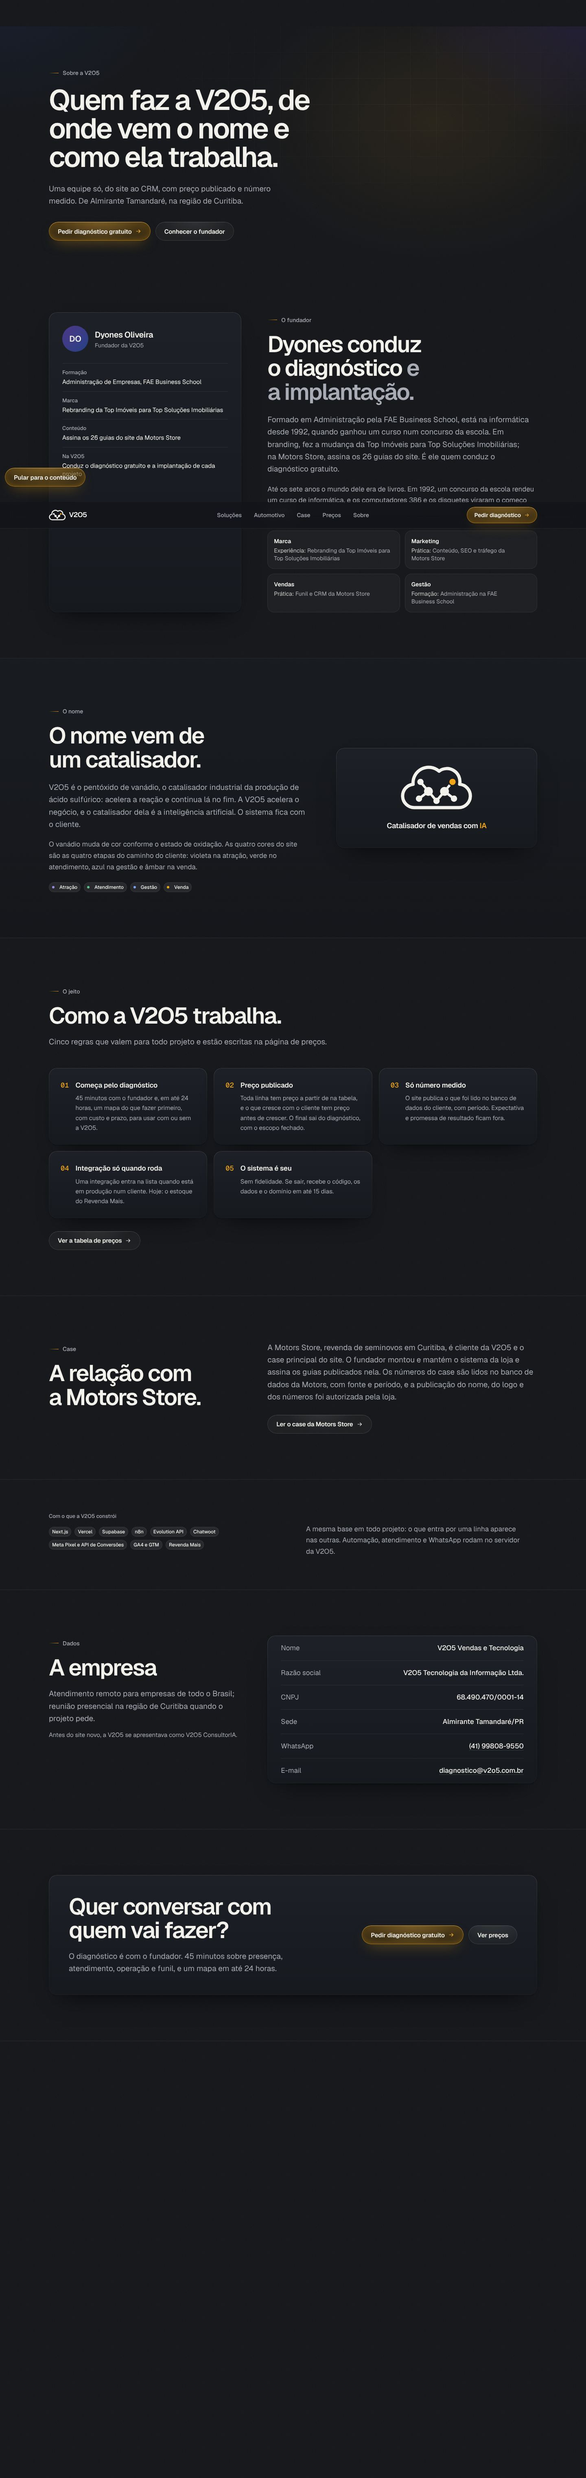
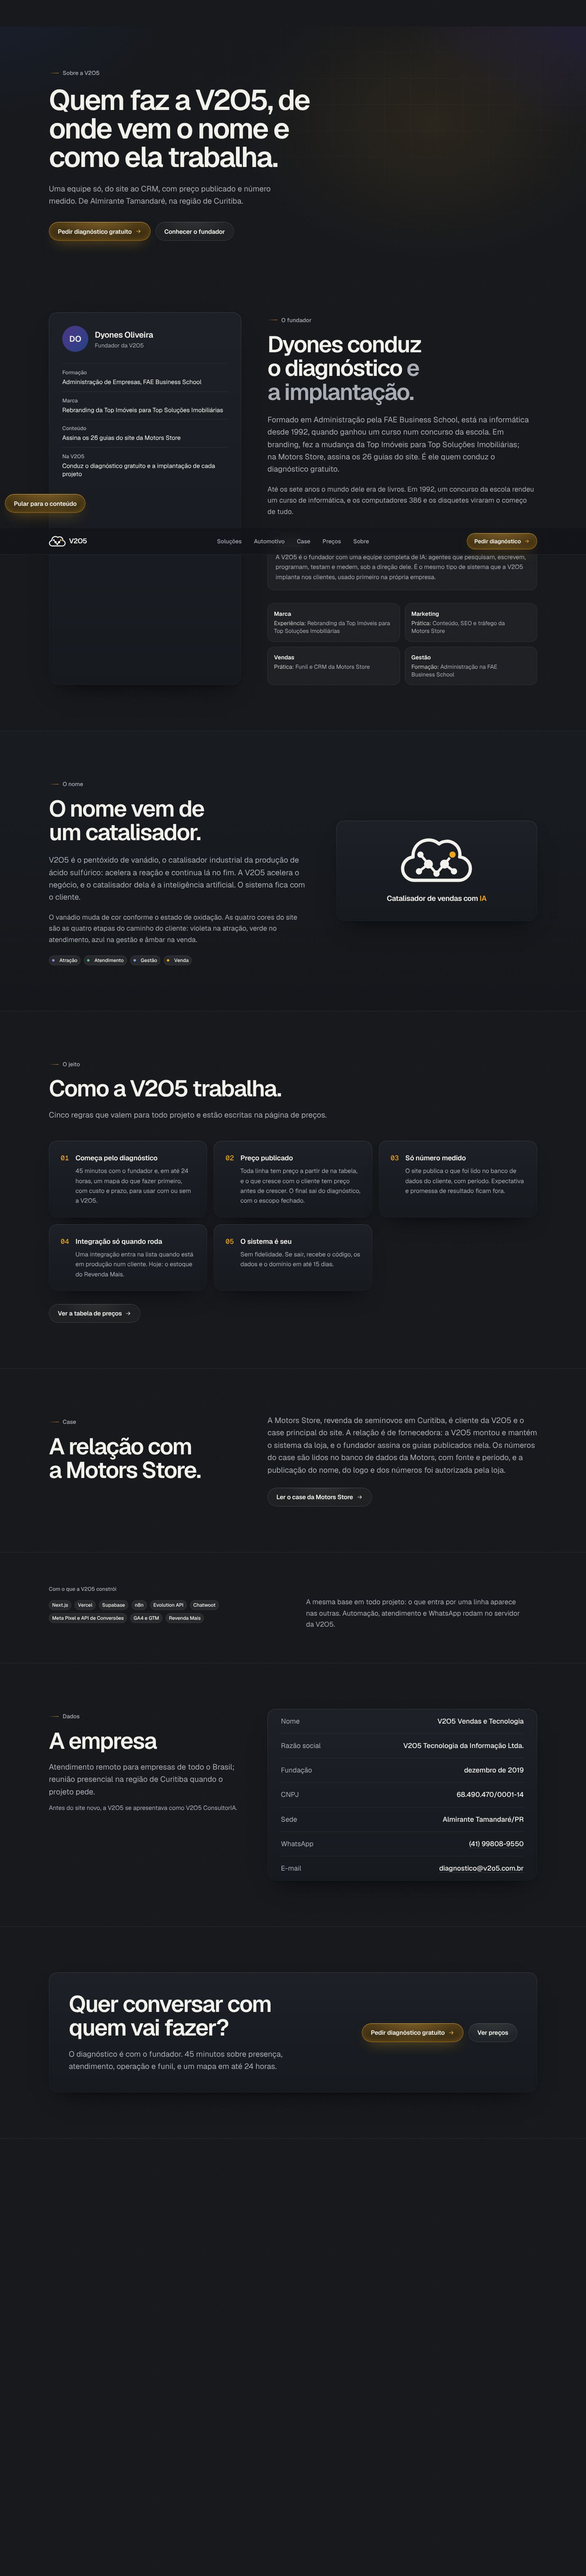
Sobre: relação com a Motors como fornecedora, equipe completa de IA e fundação em dezembro de 2019 (também no schema)
Respostas do Dyones (13/10) às três perguntas da página: a relação com a
Motors é de fornecedora; a equipe é o fundador com uma equipe completa
de IA; a V2O5 foi fundada em dezembro de 2019 (dados da empresa em
/sobre e foundingDate da organização no schema, via EMPRESA.fundacao).
Memória (marca, decisões, pendências) e tests/sobre.test.ts atualizados.

Claude-Session: https://claude.ai/code/session_016U4jhnBTXDWyNvtdckLsv3

diff --git a/src/conteudo/sobre.ts b/src/conteudo/sobre.ts
@@ -7,8 +7,11 @@ import { REGRAS } from "@/conteudo/precos";
  * declarando a relação com a Motors; `/jornada/` do site antigo redireciona
  * para cá). Só fato registrado: o que o Dyones contou (FAE, Top, diagnóstico),
  * o que publicou no site antigo (livros até os 7 anos, o concurso de 1992)
- * e o que a memória do case confirma (os 26 guias). Sem foto até ela chegar
- * (pendência 1) e sem citação inventada. `tests/sobre.test.ts` confere.
+ * e o que a memória do case confirma (os 26 guias). Respostas do Dyones em
+ * 13/10: a relação com a Motors é de fornecedora; a equipe é o fundador com
+ * uma equipe completa de IA; a empresa foi fundada em dezembro de 2019. Sem
+ * foto até ela chegar (pendência 1) e sem citação inventada.
+ * `tests/sobre.test.ts` confere.
  */
 export const SOBRE = {
   rota: "/sobre",
@@ -29,6 +32,11 @@ export const SOBRE = {
       { rotulo: "Conteúdo", valor: "Assina os 26 guias do site da Motors Store" },
       { rotulo: "Na V2O5", valor: "Conduz o diagnóstico gratuito e a implantação de cada projeto" },
     ],
+  },
+  equipe: {
+    titulo: "A equipe",
+    texto:
+      "A V2O5 é o fundador com uma equipe completa de IA: agentes que pesquisam, escrevem, programam, testam e medem, sob a direção dele. É o mesmo tipo de sistema que a V2O5 implanta nos clientes, usado primeiro na própria empresa.",
   },
   nome: {
     titulo: "O nome vem de um catalisador.",
@@ -67,7 +75,7 @@ export const SOBRE = {
   motors: {
     titulo: "A relação com a Motors Store.",
     texto:
-      "A Motors Store, revenda de seminovos em Curitiba, é cliente da V2O5 e o case principal do site. O fundador montou e mantém o sistema da loja e assina os guias publicados nela. Os números do case são lidos no banco de dados da Motors, com fonte e período, e a publicação do nome, do logo e dos números foi autorizada pela loja.",
+      "A Motors Store, revenda de seminovos em Curitiba, é cliente da V2O5 e o case principal do site. A relação é de fornecedora: a V2O5 montou e mantém o sistema da loja, e o fundador assina os guias publicados nela. Os números do case são lidos no banco de dados da Motors, com fonte e período, e a publicação do nome, do logo e dos números foi autorizada pela loja.",
     href: CASE_MOTORS.rota,
     botao: "Ler o case da Motors Store",
   },
@@ -82,6 +90,7 @@ export const SOBRE = {
     razaoSocial: EMPRESA.razaoSocial,
     cnpj: EMPRESA.cnpj,
     cidade: EMPRESA.cidade,
+    fundacao: EMPRESA.fundacaoPorExtenso,
     atendimento: "Atendimento remoto para empresas de todo o Brasil; reunião presencial na região de Curitiba quando o projeto pede.",
     antes: "Antes do site novo, a V2O5 se apresentava como V2O5 ConsultorIA.",
   },

diff --git a/tests/sobre.test.ts b/tests/sobre.test.ts
@@ -1,8 +1,8 @@
 import { describe, expect, it } from "vitest";
-import { VISAO_360 } from "@/conteudo/home";
+import { EMPRESA, VISAO_360 } from "@/conteudo/home";
 import { paginaDa } from "@/conteudo/paginas";
 import { SOBRE } from "@/conteudo/sobre";
-import { grafoDoSobre, ID_DO_FUNDADOR } from "@/lib/schema";
+import { grafoDoSobre, ID_DO_FUNDADOR, organizacao } from "@/lib/schema";
 import { ler, semComentarios } from "./fonte";
 
 /**
@@ -36,12 +36,22 @@ describe("página Sobre", () => {
     expect(ler("memory/projects/case-motors.md")).toMatch(/\| Guias publicados \| 26 \|/);
   });
 
-  it("declara a relação com a Motors como cliente e case, com a autorização registrada", () => {
+  it("declara a relação com a Motors como fornecedora (Dyones, 13/10), com a autorização registrada", () => {
     expect(SOBRE.motors.texto).toMatch(/cliente da V2O5/);
+    expect(SOBRE.motors.texto).toMatch(/fornecedora/);
     expect(SOBRE.motors.texto).toMatch(/case principal/);
     expect(SOBRE.motors.texto).toMatch(/autorizada/);
     expect(ler("memory/projects/case-motors.md")).toMatch(/Autorizado em 08\/10: nome, logo e números/);
     expect(SOBRE.motors.href).toBe("/cases/motors-store");
+  });
+
+  it("a equipe é o fundador com uma equipe completa de IA, e a fundação é dezembro de 2019 (Dyones, 13/10)", () => {
+    expect(SOBRE.equipe.texto).toMatch(/equipe completa de IA/);
+    expect(SOBRE.empresa.fundacao).toBe("dezembro de 2019");
+    expect(EMPRESA.fundacao).toBe("2019-12");
+    expect(organizacao().foundingDate).toBe("2019-12");
+    expect(pagina).toContain('["Fundação", s.empresa.fundacao]');
+    expect(ler("memory/context/marca.md")).toMatch(/dezembro de 2019/);
   });
 
   it("o nome vem do catalisador, e a assinatura é a da marca", () => {

diff --git a/src/app/sobre/page.tsx b/src/app/sobre/page.tsx
@@ -86,6 +86,10 @@ export default function Pagina() {
               </h2>
               <p className="texto-guia mt-6">{s.fundador.texto}</p>
               <p className="mt-5 text-[1.0625rem] leading-relaxed text-secundario">{s.fundador.origem}</p>
+              <div className="mt-8 rounded-2xl bg-vidro p-5 contorno">
+                <h3 className="font-semibold tracking-[-0.01em]">{s.equipe.titulo}</h3>
+                <p className="mt-1.5 text-[0.9375rem] leading-relaxed text-secundario">{s.equipe.texto}</p>
+              </div>
               <ul className="mt-8 grid gap-3 sm:grid-cols-2">
                 {VISAO_360.areas.map((a) => (
                   <li key={a.nome} className="rounded-2xl bg-vidro p-4 contorno">
@@ -206,6 +210,7 @@ export default function Pagina() {
               {[
                 ["Nome", s.empresa.nome],
                 ["Razão social", s.empresa.razaoSocial],
+                ["Fundação", s.empresa.fundacao],
                 ["CNPJ", s.empresa.cnpj],
                 ["Sede", s.empresa.cidade],
               ].map(([rotulo, valor]) => (

diff --git a/src/conteudo/home.ts b/src/conteudo/home.ts
@@ -797,6 +797,9 @@ export const EMPRESA = {
    */
   email: "diagnostico@v2o5.com.br",
   emailPrivacidade: "privacidade@v2o5.com.br",
+  /** Fundação da V2O5, pelo Dyones (13/10): dezembro de 2019. Vai para o schema (`foundingDate`) e para `/sobre`. */
+  fundacao: "2019-12",
+  fundacaoPorExtenso: "dezembro de 2019",
 };
 
 /** Assunto pré-preenchido do e-mail, por lugar. */

diff --git a/src/lib/schema.ts b/src/lib/schema.ts
@@ -36,6 +36,7 @@ export function organizacao(): No {
     url: `${SITE_URL}/`,
     logo: `${SITE_URL}/icon.svg`,
     slogan: "Catalisador de vendas com IA",
+    foundingDate: EMPRESA.fundacao,
     founder: ref(ID_DO_FUNDADOR),
     telephone: whatsappInternacional(),
     email: EMPRESA.email,

diff --git a/memory/decisoes.md b/memory/decisoes.md
@@ -5,7 +5,7 @@ Log datado. Decisão nova entra no topo do dia; decisão revogada fica riscada c
 ## 13/10/2026 (página Sobre, pelo Dyones: "prossiga")
 - `/sobre` pronta e indexável (`conteudo/sobre.ts`): o fundador com o mesmo texto da Visão 360 e quatro fatos (FAE, Top Imóveis, 26 guias da Motors, diagnóstico), a origem resumida da página Jornada do site antigo (livros até os sete anos, o concurso de 1992), as quatro áreas com a base dele; o nome (pentóxido de vanádio, catalisador do ácido sulfúrico; as quatro cores do vanádio como as quatro etapas) com o símbolo e a assinatura; cinco regras de como a V2O5 trabalha (diagnóstico primeiro, preço publicado, só número medido, integração só quando roda, o sistema é seu); a relação com a Motors declarada como cliente e case principal, com a autorização registrada; as ferramentas (stack do case) e os dados da empresa (nome, razão social, CNPJ, sede, WhatsApp, e-mail, "antes se apresentava como V2O5 ConsultorIA"). Sem foto (pendência 1 e 11): no lugar, as iniciais num círculo; a foto entra no mesmo cartão quando chegar. Sem data de fundação: o CNPJ está ativo desde 10/08/2026 (`marca.md`) e publicar isso é escolha comercial do Dyones.
 - Schema: trilha, `Person` do fundador (o `@id` `/sobre#autor` finalmente aponta para uma seção que existe) e `AboutPage` com a organização como assunto. `tests/sobre.test.ts` trava texto do fundador igual ao da Visão 360, relação com a Motors com autorização registrada, resumo ≤ 140, grafo e texto sem marcas de IA (inclusive sem aspas tipográficas, para não entrar citação inventada).
-- O que a página não afirma, por falta de registro: se o Dyones tem outra relação com a Motors além de fornecedor (a página diz "cliente e case principal"), equipe além do fundador e ano de fundação da V2O5.
+- Respostas do Dyones (13/10) às três perguntas da página: a relação com a Motors é de **fornecedora** (a página passou a dizer isso); a equipe é **o fundador com uma equipe completa de IA** (bloco "A equipe" na seção do fundador: agentes que pesquisam, escrevem, programam, testam e medem, sob a direção dele; o mesmo tipo de sistema que a V2O5 implanta); **fundação em dezembro de 2019**, publicada nos dados da empresa e no `foundingDate` do schema (`EMPRESA.fundacao`). O CNPJ atual é de 08/2026 e não é publicado como data da empresa.
 - Medido (Lighthouse 12.6 mobile, servidor local, mediana de 3): performance 97, LCP 2,46 s (H1), TBT 86 ms, CLS 0; a11y, boas práticas e SEO 100. O H1 "Quem faz a V2O5 e como ela trabalha." perdia o LCP para o parágrafo; passou a "Quem faz a V2O5, de onde vem o nome e como ela trabalha." e o resumo encurtou. 390 px sem rolagem horizontal e sem erro de console.
 
 ## 13/10/2026 (PR #6 em main)

diff --git a/memory/pendencias.md b/memory/pendencias.md
@@ -22,7 +22,7 @@ Atualize ao resolver: mova a decisão para `decisoes.md` e apague daqui.
 
 ## Técnicas
 - `/precos`, `/diagnostico` e `/privacidade` ficaram prontas em 10/10, `/cases/motors-store` em 11/10, o hub `/segmentos/revendas-de-veiculos` em 12/10, as cinco páginas de solução e `/sobre` em 13/10; faltam `/gestao-de-trafego` (fase 2; o molde `PaginaDeSolucao` serve) e `/guias` (com `noindex` até terem texto). Ordem combinada: camada de dados (GA4, CAPI; precisam dos IDs das contas) e a troca do DNS. Depois: formulário do diagnóstico embutido nas páginas de solução (plano 6.1) e as páginas de recorte automotivo.
-- `/sobre` (13/10): a foto do fundador entra no cartão do `#autor` quando chegar (pendência 1 e 11). Confirmar com o Dyones se a relação com a Motors é só de fornecedor (a página diz "cliente e case principal") e se publica a data de constituição da empresa (CNPJ ativo desde 10/08/2026). `/privacidade` escrita em 10/10 (modelo da Motors, só com o que o código faz hoje): quando GA4, Pixel ou Turnstile entrarem, a página muda na mesma rodada (`tests/privacidade.test.ts` cobra).
+- `/sobre` (13/10): a foto do fundador entra no cartão do `#autor` quando chegar (pendência 1 e 11). Relação com a Motors (fornecedora), equipe (fundador + equipe completa de IA) e fundação (dezembro de 2019) respondidas e publicadas em 13/10. `/privacidade` escrita em 10/10 (modelo da Motors, só com o que o código faz hoje): quando GA4, Pixel ou Turnstile entrarem, a página muda na mesma rodada (`tests/privacidade.test.ts` cobra).
 - LCP da home: mediana 2,19 s no Lighthouse simulado (7 rodadas, igual antes e depois do refino visual), critério é 2,0 s. O que sobra antes do LCP é quase todo o JS do Next/React (138 KB gz). Medir no preview da Vercel antes de cortar mais.
 - Próximas etapas da fase 1: conteúdo das páginas (5 soluções, hub automotivo + 2 recortes, case, preços, sobre, privacidade); formulário do diagnóstico + `/api/leads` (Supabase `v2o5-site`, Turnstile, rate limit, n8n, WhatsApp); camada de dados, GA4 e CAPI (os domínios entram na CSP); `sameAs` quando Perfil de Empresa, Instagram e LinkedIn existirem; IndexNow.
 - Motors: respostas do Chatwoot pararam de contar como contato no funil desde 23/09 (detalhe em `memory/projects/case-motors.md`). Corrigir no repo da Motors antes de o case falar de atendimento.

diff --git a/memory/context/marca.md b/memory/context/marca.md
@@ -2,7 +2,7 @@
 
 ## Nome e entidade
 - Nome fixo em todo lugar: **V2O5 Vendas e Tecnologia** (algarismos normais no texto; é o que se digita na busca).
-- Razão social V2O5 Tecnologia da Informação Ltda. · CNPJ 68.490.470/0001-14 · ME, Simples · ativa desde 10/08/2026.
+- Razão social V2O5 Tecnologia da Informação Ltda. · CNPJ 68.490.470/0001-14 · ME, Simples · CNPJ atual ativo desde 10/08/2026. Fundação da V2O5: dezembro de 2019 (Dyones, 13/10; publicada em `/sobre` e no `foundingDate` do schema).
 - Sede residencial em Almirante Tamandaré/PR: publicar só cidade e estado. Perfil de Empresa como área de serviço.
 - Schema: `name` nome fantasia, `legalName`, `taxID`, `alternateName` ["V2O5", "V2O5 ConsultorIA"], `founder` Person Dyones Oliveira.
 - "V2O5" sozinho na busca é o composto químico: sempre usar a forma fixa e `sameAs` consistente.
